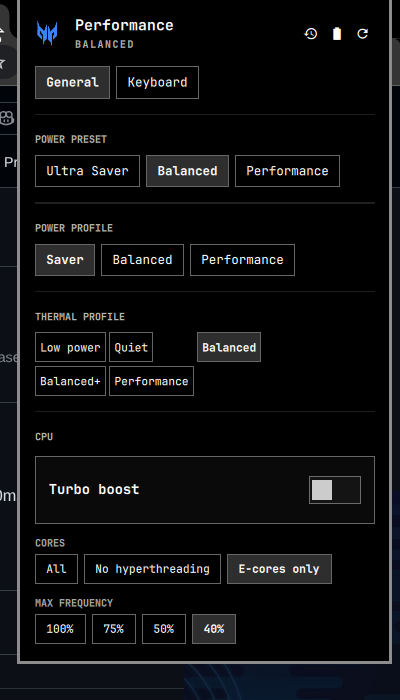
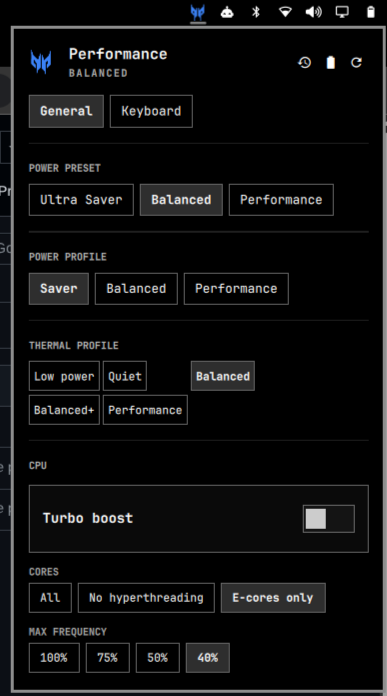
Use real screenshots from testing (general, GPU/battery/fan, keyboard tabs)

Changed region(s): [[0.0, 0.0, 1.0, 1.0]]

diff --git a/README.md b/README.md
@@ -67,6 +67,8 @@ one password prompt. No manual `modprobe`/blacklist editing.
 - Battery: live percentage/status, 80% charge-limit toggle, fan speed
 - Session restore: reopens your open windows on next login
 
+![CPU, GPU, battery, and fan controls](assets/screenshot-general-gpu-battery.png)
+
 **Keyboard tab** (4-zone RGB)
 - Brightness (5 steps), 9 static colors, 7 animated effects (Breathing / Neon / Wave /
   Shifting / Zoom / Meteor / Twinkling), match-current-theme, off
